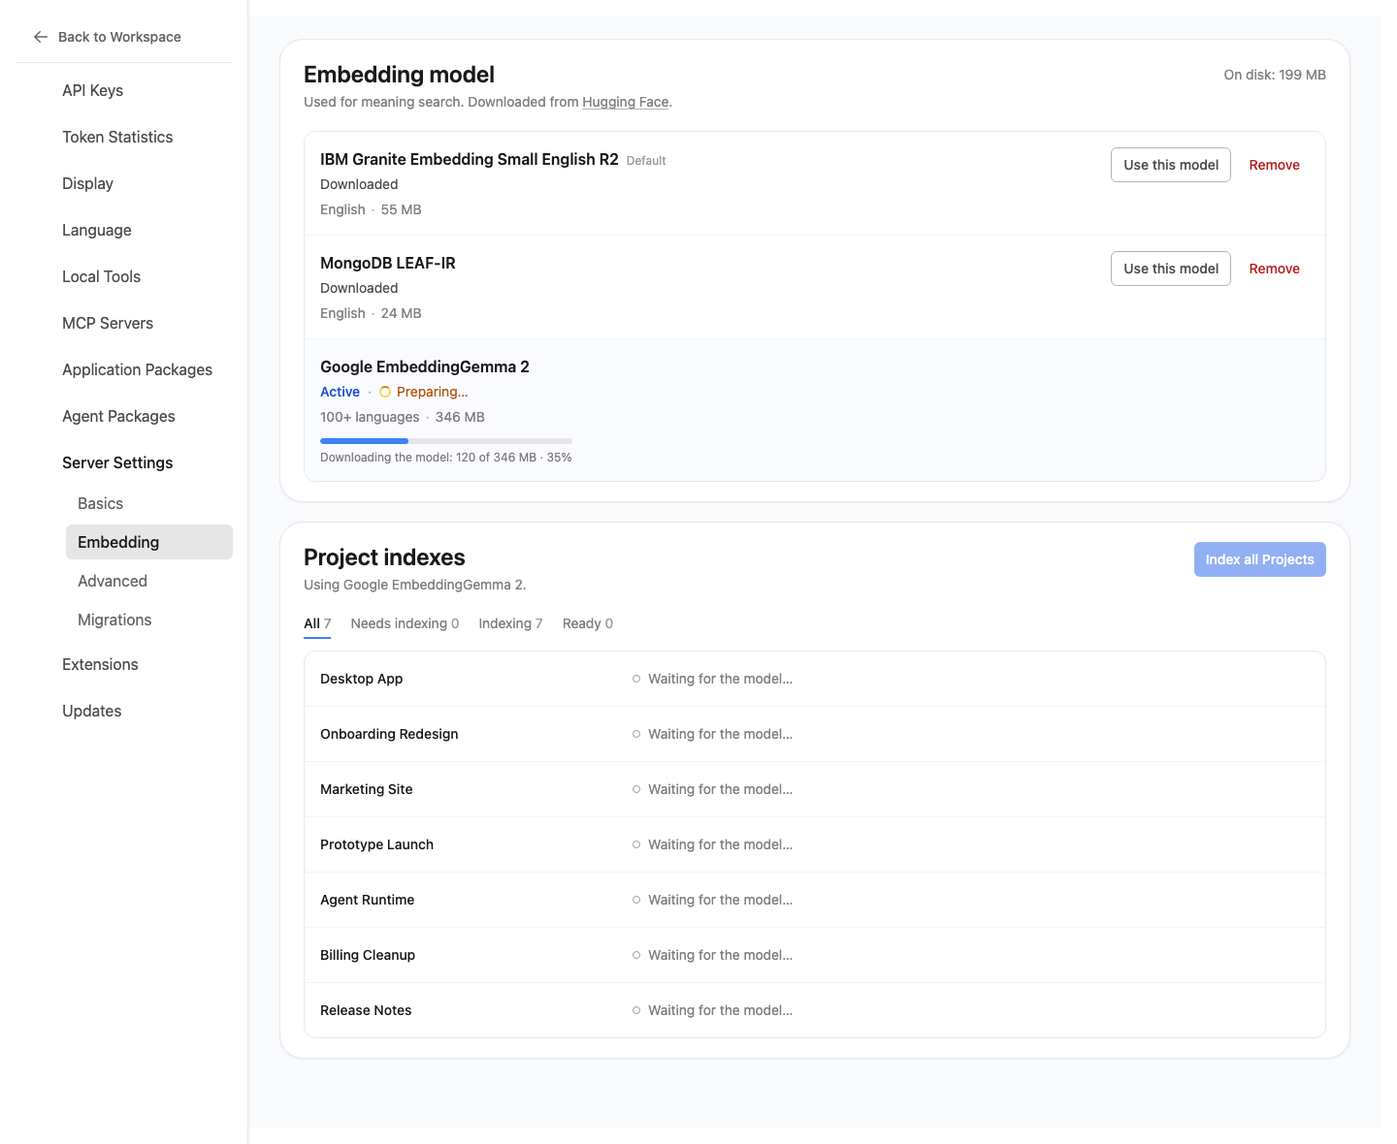
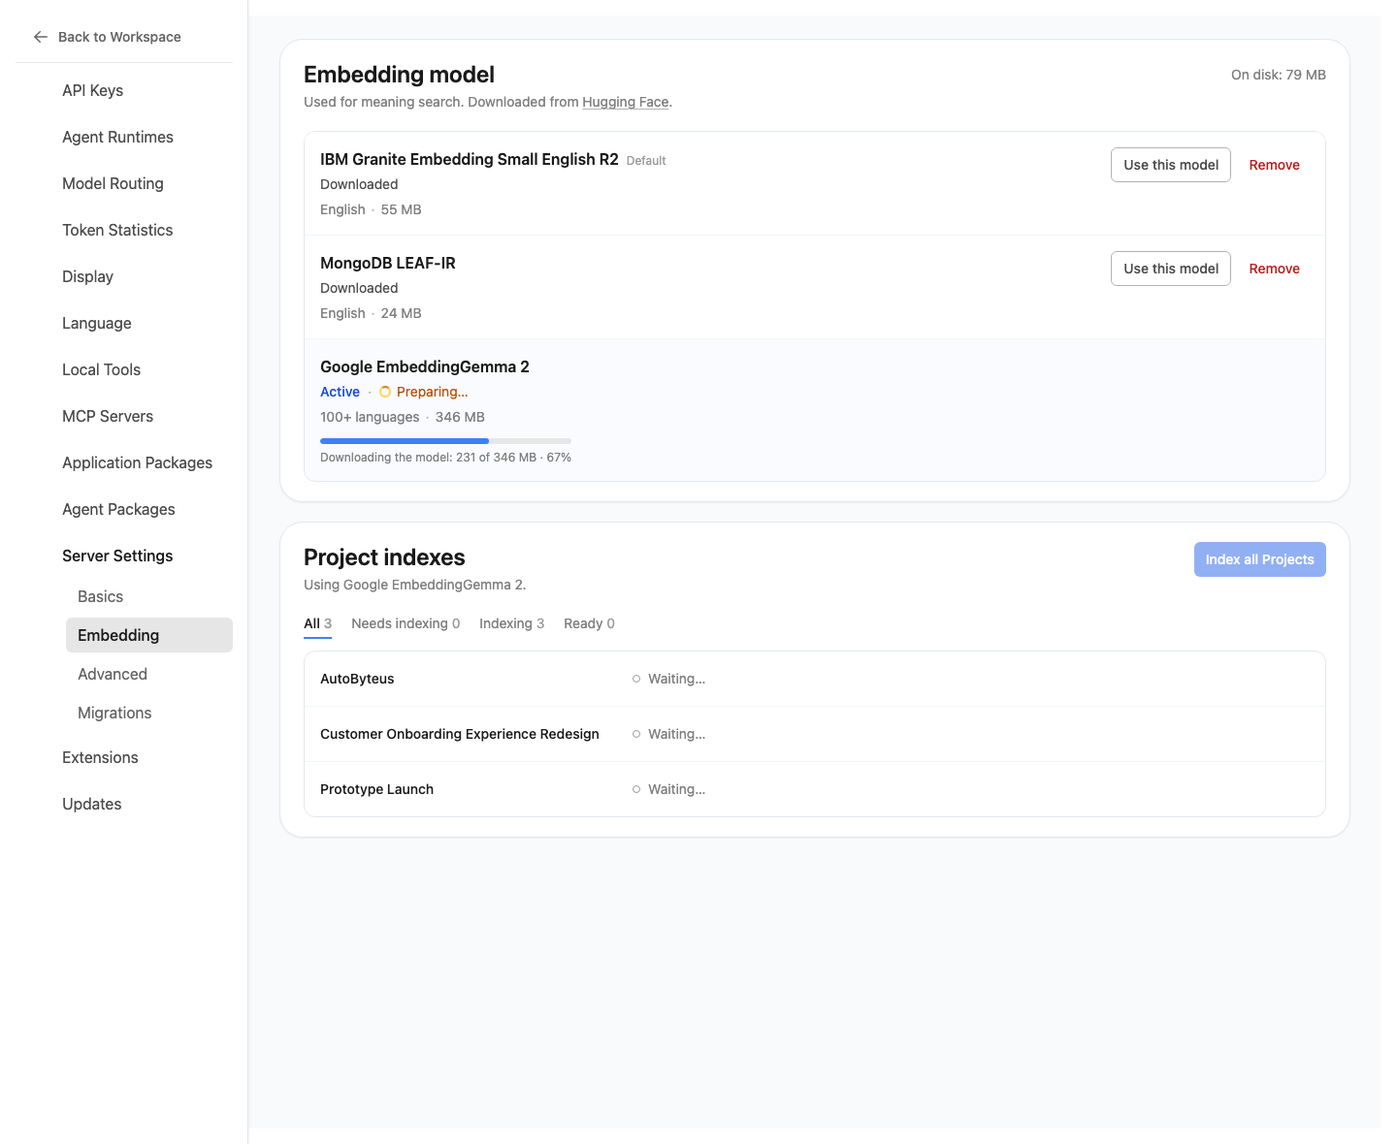
design(search-model-settings): RV-001 one "Waiting…" Project state (zh-CN 等待中…) whatever the model's state; spec, VIS-007/010 recaptured, VIS-022 added
Project Task autobyteus-320 (web UI cleanup round, item 3, was autobyteus-196); user-approved 2026-10-28.

diff --git a/components/settings/embedding/ProjectIndexesCard.vue b/components/settings/embedding/ProjectIndexesCard.vue
@@ -54,7 +54,7 @@
               </template>
               <div v-else-if="displayState(p) === 'WAITING'" class="flex items-center gap-2 text-gray-500">
                 <span class="h-2 w-2 flex-shrink-0 rounded-full border border-gray-400"></span>
-                <span>{{ modelReady ? t('settings.search.projects.state.waiting') : t('settings.search.projects.state.waitingModel') }}</span>
+                <span>{{ t('settings.search.projects.state.waiting') }}</span>
               </div>
               <div v-else-if="displayState(p) === 'READY'" class="flex items-center gap-2 text-green-700">
                 <span class="h-1.5 w-1.5 flex-shrink-0 rounded-full bg-green-600"></span>
@@ -119,7 +119,6 @@ const working = ref<string | null>(null)
 const indexingAll = ref(false)
 
 const unavailable = computed(() => props.modelState === 'UNAVAILABLE')
-const modelReady = computed(() => props.modelState === 'READY')
 const displayState = (p: ProjectTaskIndex): ProjectTaskIndexState => (unavailable.value ? 'UNAVAILABLE' : p.state)
 const needsIndexing = (p: ProjectTaskIndex) => p.state === 'NOT_INDEXED' || p.state === 'NEEDS_UPDATE'
 const canIndex = (p: ProjectTaskIndex) => !unavailable.value && needsIndexing(p)

diff --git a/localization/messages/zh-CN/embeddingSettings.ts b/localization/messages/zh-CN/embeddingSettings.ts
@@ -52,8 +52,7 @@ const embeddingSettingsMessages = {
   "settings.search.projects.empty": "还没有项目。",
   "settings.search.projects.state.notIndexed": "未建立索引",
   "settings.search.projects.state.indexing": "正在建立索引 {{done}}/{{total}}",
-  "settings.search.projects.state.waiting": "等待开始…",
-  "settings.search.projects.state.waitingModel": "等待模型就绪…",
+  "settings.search.projects.state.waiting": "等待中…",
   "settings.search.projects.state.ready": "就绪 · {{count}} 个任务",
   "settings.search.projects.state.readyOne": "就绪 · 1 个任务",
   "settings.search.projects.state.needsUpdate": "需要更新 · {{count}} 项已更改",

diff --git a/localization/messages/en/embeddingSettings.ts b/localization/messages/en/embeddingSettings.ts
@@ -52,8 +52,7 @@ const embeddingSettingsMessages = {
   "settings.search.projects.empty": "No Projects yet.",
   "settings.search.projects.state.notIndexed": "Not indexed",
   "settings.search.projects.state.indexing": "Indexing {{done}} of {{total}}",
-  "settings.search.projects.state.waiting": "Waiting to start…",
-  "settings.search.projects.state.waitingModel": "Waiting for the model…",
+  "settings.search.projects.state.waiting": "Waiting…",
   "settings.search.projects.state.ready": "Ready · {{count}} Tasks",
   "settings.search.projects.state.readyOne": "Ready · 1 Task",
   "settings.search.projects.state.needsUpdate": "Needs update · {{count}} changed",

diff --git a/tickets/done/search-model-settings/ui-ux-spec.md b/tickets/done/search-model-settings/ui-ux-spec.md
@@ -2,7 +2,7 @@
 
 ## Status And User Confirmation
 
-- Status: `Approved`
+- Status: `Approved` (revision RV-001, 2026-10-28)
 - Request / ticket: Product ticket `search-model-settings`; Project Task `autobyteus-146` (follow-up FU-1 of `autobyteus-71`), requested by the Solution Designer (`solution_designer_80624588913d473bac3ef7d8c3d4d305`) for the user.
 - Related requirements revision ID: `SR-001` (`requirements-doc.md` in `/Users/normy/autobyteus_org/autobyteus-worktrees/search-model-settings/tickets/in-progress/search-model-settings/`). **This design changes that revision; see "Requirement Impact" below.**
 - Related IDs: UC-001–UC-004; REQ-001–REQ-009; AC-001–AC-009; SCN-001–SCN-004; DEC-003, DEC-005 (resolved here), DEC-006, DEC-007, DEC-008; QR-003. Checks SRCH-001 to SRCH-019 in `visual-references/final-validation.mjs`.
@@ -18,6 +18,14 @@
 3. **REQ-004 / DEC-008 cost is narrowed:** the switch dialog states the **download size only** ("346 MB, not downloaded yet" or "Already downloaded"). It no longer states time per Task or memory.
 4. **Copy is deliberately minimal.** Sentences in the sketch and the earlier candidates (what embeddings are, "applies to this node", "one model at a time", "indexing starts when…", "only the active model's index is kept", "No partial files", "Exact-match search still works", completion notices) were removed on purpose. They are not required copy.
 5. Everything else in REQ-001–REQ-009 is covered as specified below. Design additions beyond the requirement text that the user approved: D-1…D-5 (see "Open Decisions And Risks", which records them as decided).
+
+### Revision RV-001 (2026-10-28): one "Waiting…" state
+
+- Requested by the Solution Designer (Project Task `autobyteus-320`, web UI cleanup round, item 3, was `autobyteus-196`; requirements REQ-005, REQ-006, AC-007, AC-008 of package `web-ui-cleanup-round`). Approved by the user, 2026-10-28: "That's also fine if you want to change" (requirements DEC-004). No new design decision was made here.
+- Changed: a Project whose indexing is requested but not started shows **one** state, **"Waiting…"** (zh-CN **"等待中…"**), whatever the model's state. It replaces "Waiting to start…" (model ready) and "Waiting for the model…" (model not ready); since `autobyteus-146` a Project is indexed right after a Task is saved, so the first appeared only for a moment. Nothing is lost: the "Embedding model" card directly above still shows the model's own state ("Preparing…", "Downloading the model: N of M MB", "Ready").
+- Unchanged: "Indexing N of M" and every other Project state, the model card, the dot style (hollow grey dot, `text-gray-500`), Index all, filters, rebuild.
+- Changed in the spec: UXJ-005, TR-013, the states table row "Project: Waiting", the copy list, VIS-007 and VIS-010 text; VIS-007 and VIS-010 recaptured; VIS-022 added (zh-CN). Changed in the UI reference: `components/settings/embedding/ProjectIndexesCard.vue` (one text, `modelReady` removed), `localization/messages/{en,zh-CN}/embeddingSettings.ts` (`settings.search.projects.state.waiting` is the single key; `…waitingModel` removed).
+- Interim copy shown elsewhere in this specification before RV-001 ("Waiting to start…", "Waiting for the model…") is superseded by the above.
 
 ## Repository And Baseline Provenance
 
@@ -117,7 +125,7 @@ The `Search*` file names and `search-*` test ids are historical; the product nam
 
 **UXJ-004 Switch.** **Use this model** opens the dialog (VIS-004 not downloaded, VIS-005 downloaded). **Cancel** or Esc closes it and changes nothing. **Use this model** (confirm) writes the setting: the chosen row becomes Active, the previous model becomes Downloaded, the "Project indexes" subtitle names the new model, and every Project shows **Not indexed** (VIS-006). If the model was not downloaded the Active row shows "Preparing…" with "Downloading the model: N of M MB · P%", then a short "Loading the model…" bar, then "Ready" (VIS-007). Focus lands on the new Active row. Search on the board keeps working with exact matches meanwhile (existing behavior).
 
-**UXJ-005 Index.** **Index all Projects** starts every Project that is Not indexed or Needs update. A Project shows "Waiting to start…" (or "Waiting for the model…" while the model prepares), then "Indexing N of M" with a thin bar, then "Ready · M Tasks". Per Project, **Index now** appears on Not indexed and Needs update Projects (Needs update indexes only the changed Tasks: "Indexing N of K"). Index all is disabled when nothing needs indexing and when the model is unavailable (its `title` says why). (VIS-007, VIS-010)
+**UXJ-005 Index.** **Index all Projects** starts every Project that is Not indexed or Needs update. A Project shows "Waiting…" (one wording, whether the model is ready or still preparing; the model card above shows the model's own state and download progress), then "Indexing N of M" with a thin bar, then "Ready · M Tasks". Per Project, **Index now** appears on Not indexed and Needs update Projects (Needs update indexes only the changed Tasks: "Indexing N of K"). Index all is disabled when nothing needs indexing and when the model is unavailable (its `title` says why). (VIS-007, VIS-010)
 
 **UXJ-006 Rebuild.** **Rebuild** (Ready and Needs update Projects) opens an inline confirmation: "Rebuild “<name>” from scratch? Meaning search is exact-only until it finishes." with **Rebuild** (blue) and **Cancel**. Confirming re-indexes every Task of that Project; the row shows Waiting, then Indexing N of M, then Ready. (VIS-009)
 
@@ -151,7 +159,7 @@ The `Search*` file names and `search-*` test ids are historical; the product nam
 | TR-010 | Dialog | Cancel / Esc | Dialog closes, focus returns to the opener | Unchanged | Nothing changes | — |
 | TR-011 | Dialog | Confirm | New Active row; previous Downloaded; Projects Not indexed; focus on the new row | Active preparing (or ready when Downloaded) | Setting `AUTOBYTEUS_EMBEDDING_MODEL` written; model prepared (downloaded if needed) | Retry (if it fails), Index now, Index all |
 | TR-012 | Active preparing | Download then load complete | Status "Ready" (announced) | Active ready | Waiting Projects start | all |
-| TR-013 | Project Not indexed / Needs update | Index now | "Waiting to start…" then "Indexing N of M" | Indexing | Background indexing; model prepared if needed | — |
+| TR-013 | Project Not indexed / Needs update | Index now | "Waiting…" then "Indexing N of M" | Indexing | Background indexing; model prepared if needed | — |
 | TR-014 | Projects needing work | Index all Projects | Each shows Waiting then Indexing | Indexing | One at a time in list order (UI reference); scheduling is the server's | — |
 | TR-015 | Indexing | Progress tick | "Indexing N of M" and bar advance | Indexing | — | — |
 | TR-016 | Indexing | Completed | "Ready · M Tasks" (announced) | Ready | Vectors stored for the active model | Rebuild |
@@ -173,7 +181,7 @@ The `Search*` file names and `search-*` test ids are historical; the product nam
 | Model: download failed | Failure | Red "Download failed: <reason>" under the facts | Retry, Use this model | Retry | VIS-003 |
 | Model: Remove confirmation | Remove | Grey strip "Remove <name>? This frees <size> MB." | Remove, Cancel | Cancel / Esc | VIS-008 |
 | Project: Not indexed | Default | Grey dot "Not indexed" | Index now | — | VIS-001 |
-| Project: Waiting | Queued | Hollow dot "Waiting to start…" or "Waiting for the model…" | none | — | VIS-007 |
+| Project: Waiting | Queued | Hollow dot "Waiting…" (zh-CN "等待中…"): one state, the same whether the model is ready or still preparing | none | — | VIS-007, VIS-010, VIS-022 |
 | Project: Indexing | Running | Spinner "Indexing N of M" + 4 px bar | none | — | VIS-001, VIS-010 |
 | Project: Ready | Done | Green dot "Ready · M Tasks" ("Ready · 1 Task" for one) | Rebuild | — | VIS-001 |
 | Project: Needs update | Changed Tasks | Amber dot "Needs update · K changed" | Index now, Rebuild | — | VIS-001, VIS-010 |
@@ -194,7 +202,7 @@ The `Search*` file names and `search-*` test ids are historical; the product nam
   - Model description: "Used for meaning search. Downloaded from Hugging Face." ("Hugging Face" is the link). Total: "On disk: N MB". "Default".
   - Status: Active · Ready / Preparing… / Unavailable; Downloaded; Not downloaded; Downloading. Facts: language label (English / 100+ languages) · "N MB".
   - Actions: Download, Cancel, Use this model, Remove, Retry; Index now, Rebuild, Index all Projects.
-  - Progress: "N of M MB", "Downloading the model: N of M MB", "Loading the model…"; "Indexing N of M", "Waiting to start…", "Waiting for the model…".
+  - Progress: "N of M MB", "Downloading the model: N of M MB", "Loading the model…"; "Indexing N of M", "Waiting…" (zh-CN "等待中…").
   - Project states: "Not indexed", "Ready · M Tasks", "Ready · 1 Task", "Needs update · K changed", "Unavailable". Card subtitle: "Using <model name>."
   - Filter tabs: All · Needs indexing · Indexing · Ready (each with a count); placeholder "Filter Projects".
   - Dialog: title "Use <model name>?"; lead "Every Project has to be indexed again with this model."; bullet "Until then, meaning search finds exact matches only."; line "Download: 346 MB, not downloaded yet" / "Download: Already downloaded"; buttons "Cancel", "Use this model".
@@ -259,10 +267,10 @@ All images are in `visual-references/`, captured by `capture-references.mjs` aft
 | VIS-004 | UXJ-004; dialog, not downloaded | 1440×1180 | `…/VIS-004-switch-dialog-not-downloaded-1440x1180.png` | Dialog title, lead, bullet, "Download: 346 MB, not downloaded yet", buttons | — |
 | VIS-005 | UXJ-004; dialog, downloaded | 1440×1180 | `…/VIS-005-switch-dialog-downloaded-1440x1180.png` | "Download: Already downloaded" | — |
 | VIS-006 | UXJ-004; after a switch to a downloaded model | 1440×1180 | `…/VIS-006-after-switch-all-projects-not-indexed-1440x1180.png` | New Active row, previous Downloaded, subtitle names the new model, every Project Not indexed, Index all enabled | — |
-| VIS-007 | UXJ-004, UXJ-005; preparing and Index all | 1440×1180 | `…/VIS-007-switch-preparing-index-all-waiting-1440x1180.png` | Active · Preparing… with download bar, "Waiting for the model…" rows, Index all disabled | Progress values |
+| VIS-007 | UXJ-004, UXJ-005; preparing and Index all | 1440×1180 | `…/VIS-007-switch-preparing-index-all-waiting-1440x1180.png` | Active · Preparing… with download bar, every Project row "Waiting…", Index all disabled | Progress values |
 | VIS-008 | UXJ-003; Remove confirmation | 1440×1180 | `…/VIS-008-remove-confirmation-1440x1180.png` | Inline strip and buttons | — |
 | VIS-009 | UXJ-006; Rebuild confirmation | 1440×1180 | `…/VIS-009-rebuild-confirmation-1440x1180.png` | Inline strip under the Project row | — |
-| VIS-010 | UXJ-005; Needs update indexing | 1440×1180 | `…/VIS-010-needs-update-indexing-1440x1180.png` | "Indexing N of K" for a Needs update Project, others waiting | Progress values |
+| VIS-010 | UXJ-005; Needs update indexing | 1440×1180 | `…/VIS-010-needs-update-indexing-1440x1180.png` | "Indexing N of K" for a Needs update Project, another Project "Waiting…" | Progress values |
 | VIS-011 | UXJ-008; model unavailable | 1440×1180 | `…/VIS-011-model-unavailable-1440x1180.png` | Active · Unavailable, reason, Retry, grey "Unavailable" rows, filter tabs hidden, Index all disabled | The reason wording |
 | VIS-012 | UXJ-001; many Projects | 1440×2000 | `…/VIS-012-many-projects-1440x2000.png` | Filter field beside the tabs, 24 rows | Names and counts |
 | VIS-013 | Many Projects, filtered | 1440×1500 | `…/VIS-013-many-projects-filtered-1440x1500.png` | Selected tab with counts unchanged by the name filter, filtered list | Names and counts |
@@ -274,13 +282,14 @@ All images are in `visual-references/`, captured by `capture-references.mjs` aft
 | VIS-019 | zh-CN download failed | 1440×1180 | `…/VIS-019-zh-CN-download-failed-1440x1180.png` | zh-CN failure copy naming huggingface.co | — |
 | VIS-020a–c | Narrow layout, scrolled | 390×1100 (scroll 0 / 700 / 1400) | `…/VIS-020a-narrow-390x1100-scroll-0.png`, `…/VIS-020b-narrow-390x1100-scroll-700.png`, `…/VIS-020c-narrow-390x1100-scroll-1400.png` | Stacked header, wrapped facts, stacked rows | The Settings navigation block above is the existing product behavior |
 | VIS-021 | Narrow dialog | 390×1100 | `…/VIS-021-narrow-switch-dialog-390x1100.png` | Dialog at narrow width | — |
+| VIS-022 | Project: Waiting, zh-CN (revision RV-001) | 1440×1180 | `…/VIS-022-zh-CN-waiting-1440x1180.png` | "等待中…" on a waiting Project row, beside the other zh-CN Project states | Project names, counts, progress values |
 
 ## Linked UI Reference Evidence
 
 - Runnable UI reference: the design repository root on `personal` after integration (`corepack pnpm install --ignore-workspace --frozen-lockfile`, `corepack pnpm dev --port <port>`), route `/settings?section=server-settings&mode=embedding`.
-- Ticket record: `tickets/done/search-model-settings/product-ticket.md`
+- Ticket record: `tickets/done/search-model-settings/product-ticket.md` (revision RV-001 recorded there)
 - Run instructions: `ui-reference-runbook.md` (repository root), section "search-model-settings".
-- Relevant supporting artifacts: `design-review-notes.md` (revision history, findings, self-validation round); `visual-references/final-validation.mjs` (SRCH-001…SRCH-019); `visual-references/capture-references.mjs`.
+- Relevant supporting artifacts: `design-review-notes.md` (revision history, findings, self-validation round); `visual-references/final-validation.mjs` (SRCH-001…SRCH-019); `visual-references/capture-references.mjs`; `visual-references/capture-waiting-references.mjs` (RV-001: VIS-007, VIS-010, VIS-022 against the current Embedding section).
 - Relevant journey, transition, or scenario IDs: UXJ-001…UXJ-008, TR-001…TR-020; scenarios listed above.
 - Mocked boundaries and limitations: see Data, Contract, And Mock Boundaries. Not modelled: the Advanced table and the raw setting (REQ-009), real downloads, cancel and verification, real indexing and scheduling, the board's status line, Electron external-link handling.
 

diff --git a/tickets/done/search-model-settings/product-ticket.md b/tickets/done/search-model-settings/product-ticket.md
@@ -6,7 +6,7 @@
   ("Search model settings: choose, download and index the embedding model from Settings"), follow-up FU-1 of `autobyteus-71`. There is no second ID.
 - Title: Settings → Server Settings → Embedding: choose, download and index the embedding model.
 - Mode: `Product Experience Design`. It evolves the accepted AutoByteus Web baseline in place: Server Settings gets one new sub-section, **Embedding** (the user's direction, 2026-10-19: under Server Settings, technical wording).
-- Status: `Completed`
+- Status: `Completed` (revision RV-001, 2026-10-28, one "Waiting…" state, approved by the user; see "Revision RV-001")
 - Requester: the Solution Designer (`solution_designer_80624588913d473bac3ef7d8c3d4d305`), for the user, 2026-10-19.
 - Related requirements: `requirements-doc.md` `SR-001` (`/Users/normy/autobyteus_org/autobyteus-worktrees/search-model-settings/tickets/in-progress/search-model-settings/`):
   UC-001–UC-004, REQ-001–REQ-009, AC-001–AC-009, SCN-001–SCN-004, DEC-001–DEC-008 (open: DEC-005).
@@ -52,3 +52,15 @@
 
 - Next expected action: the Solution Designer reconciles the approved package with the requirements (next solution revision, including the requirement impact above) and starts the architecture design.
 - Handoff: `get_handoff_rules` returned only the Baseline Needed route, so the result goes back to the requester (see the message sent).
+
+## Revision RV-001 (2026-10-28): one "Waiting…" state
+
+- Requested by: the Solution Designer (run `solution_designer_8dc321539e5e490ea700d6e7f58d14ff`), Project Task `autobyteus-320` (web UI cleanup round, item 3, was `autobyteus-196`; package `web-ui-cleanup-round`, REQ-005, REQ-006, AC-007, AC-008). App ticket folder: `/Users/normy/autobyteus_org/autobyteus-worktrees/web-ui-cleanup-round/tickets/in-progress/web-ui-cleanup-round/` (`requirements-doc.md`).
+- Approval: the user, 2026-10-28 ("That's also fine if you want to change"; requirements DEC-004). No new design decision; recorded as an approved state change.
+- Mode: Product Experience Design, evolving the accepted Embedding section in place.
+- Worktree / branch: `/Users/normy/autobyteus_org/autobyteus-web-design-worktrees/search-model-settings-waiting`, `design/search-model-settings-waiting`, from `origin/personal` `a0b6410395513288e453af5904fd0a9fa88f78ac`; the ticket folder was moved back to `tickets/in-progress/` while open.
+- Runtime: dev server on port 4940 (stopped at closure); capture scripts and scratch output in `/tmp/sms-waiting/` (not committed except `visual-references/capture-waiting-references.mjs`); in-memory state, reset by reload. `node_modules` was a temporary symlink to the canonical checkout's, removed before the commit.
+- Changed: the states table row "Project: Waiting" is one state, "Waiting…" (zh-CN "等待中…"); UXJ-005, TR-013, the copy list and the VIS-007/VIS-010 text follow. UI reference: `ProjectIndexesCard.vue`, `localization/messages/{en,zh-CN}/embeddingSettings.ts`. VIS-007 and VIS-010 recaptured; VIS-022 (zh-CN Waiting) added.
+- Checked in the browser: model preparing (Gemma downloading, after Use this model + Index all): all three Projects read "Waiting…"; model ready (scenario `embedding_busy`, Release Notes): "Waiting…"; Index now on Prototype Launch: "Waiting…" then "Indexing 2 of 5"; zh-CN: "等待中…"; no other state changed.
+- Limitations (recorded, not introduced here): the Embedding section's reference screenshots VIS-001…VIS-021 other than VIS-007 and VIS-010 were captured at ticket time and are not recaptured (the surrounding Settings sidebar and the default Projects list have since changed through other accepted tickets; this revision changes only the waiting text). `visual-references/final-validation.mjs` and `capture-references.mjs` use the ticket-time test ids (`search-*`) and no longer run against the current section (see `ui-reference-runbook.md`); only the one expectation that named the old wording was updated.
+- Data origin: unchanged; all fixtures are invented.

diff --git a/tickets/done/search-model-settings/design-review-notes.md b/tickets/done/search-model-settings/design-review-notes.md
@@ -59,7 +59,7 @@ Scenarios (seed the start state only; set `localStorage['autobyteus.prototype.sc
   meaning search for that Project is exact-only until it finishes. Reason: a mistaken Remove of EmbeddingGemma 2 costs a 346 MB re-download. Easy to drop.
 - **D-2 "Use this model" is also offered on a model that is not downloaded** (the download then happens as part of switching, shown on the Active row). It is hidden while that model is
   downloading ahead. The active model's own preparing download has no Cancel (the user can choose another model).
-- **D-3 A Project can show "Waiting…"** (waiting for the model, or for its turn) before "Indexing N of M". "Index all Projects" is therefore usable right after a switch.
+- **D-3 A Project can show "Waiting…"** (RV-001, 2026-10-28: one wording, whatever the model's state; the model card shows the model's state) before "Indexing N of M". "Index all Projects" is therefore usable right after a switch.
 - **D-4 "Index all Projects" means "Index now" for every Project that is Not indexed or Needs update**; it is disabled when nothing needs it and when the model is unavailable.
   "Needs update" progress counts the changed Tasks ("Indexing 1 of 3").
 - **D-5 Unavailable model:** every Project shows Unavailable, its actions are hidden, and a note points to Retry on the model.

diff --git a/ui-reference-runbook.md b/ui-reference-runbook.md
@@ -256,6 +256,7 @@ corepack pnpm dev --port 4691
   `search_many_projects`, `search_empty`, `search_load_failed`. Remove the key to reset to `populated`. Locale: `localStorage['autobyteus.localization.preference-mode'] = 'zh-CN'`.
 - Validation: `BASE=http://127.0.0.1:4691 node tickets/done/search-model-settings/visual-references/final-validation.mjs` (SRCH-001-019, 87 checks; the page clock is paused and driven by the script).
   Final references: `BASE=... OUT=tickets/done/search-model-settings/visual-references/ node tickets/done/search-model-settings/visual-references/capture-references.mjs`.
+- RV-001 (2026-10-28, one "Waiting…" state): `BASE=http://127.0.0.1:4940 OUT=tickets/done/search-model-settings/visual-references/ node tickets/done/search-model-settings/visual-references/capture-waiting-references.mjs` recaptures VIS-007, VIS-010 and VIS-022 against the current section (scenario `embedding_busy`).
 - Reset: reload the page (in-memory state). Spec: `tickets/done/search-model-settings/ui-ux-spec.md`.
 
 ## task-part-of ("part of" between Project Tasks; source pin unchanged `2f21134`)
